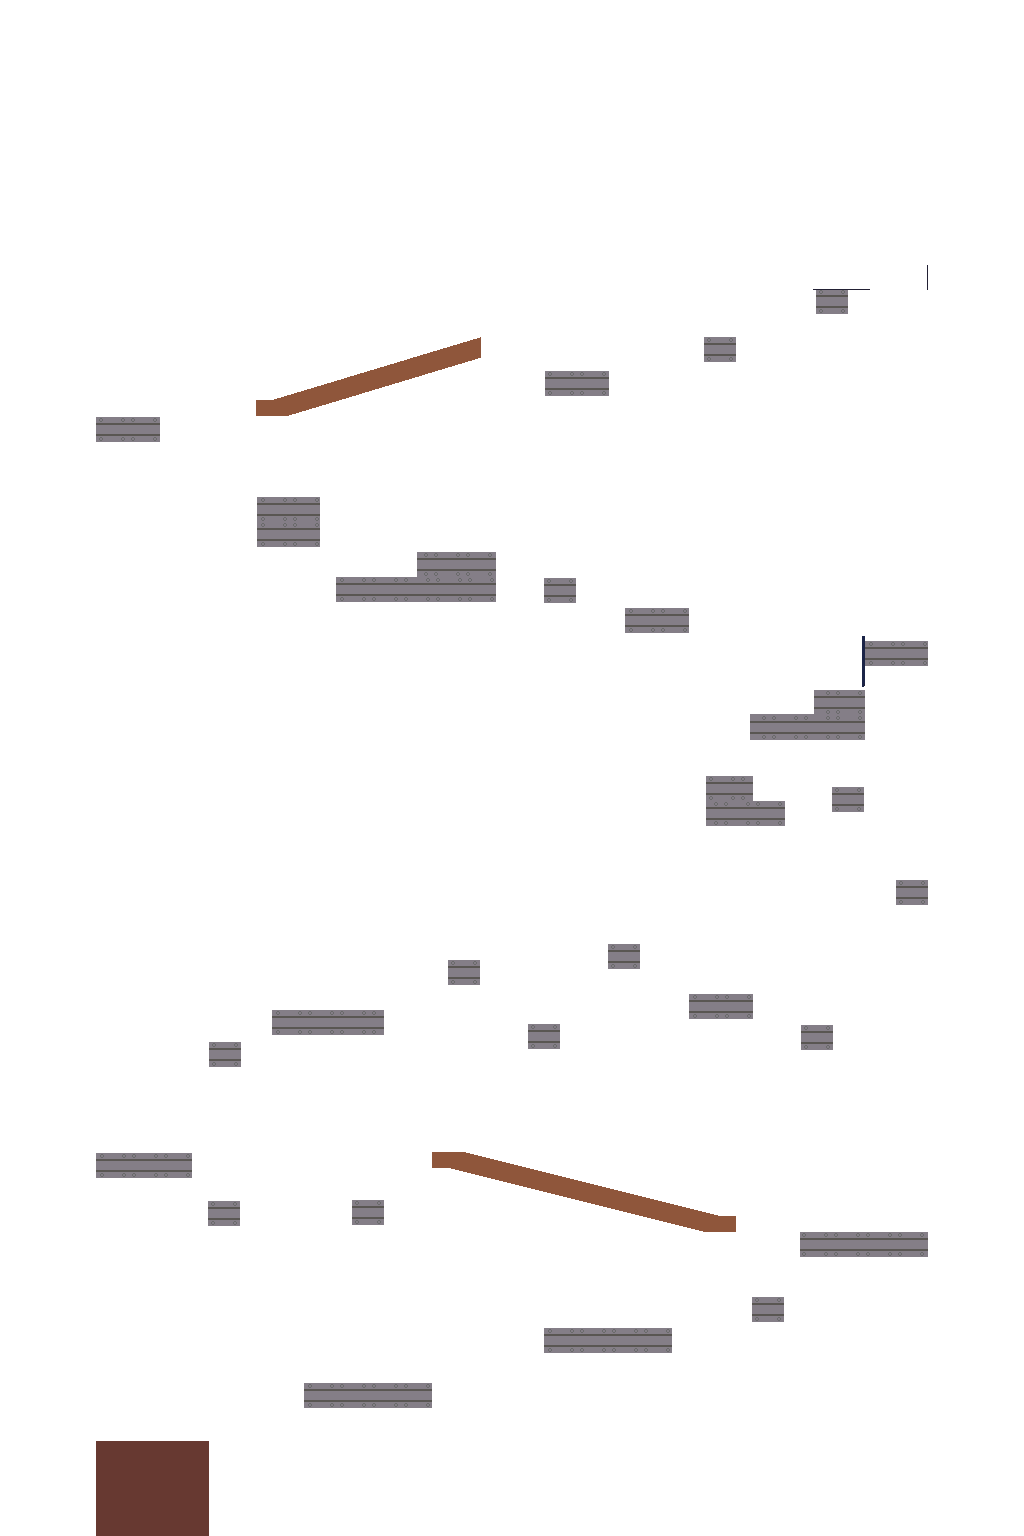
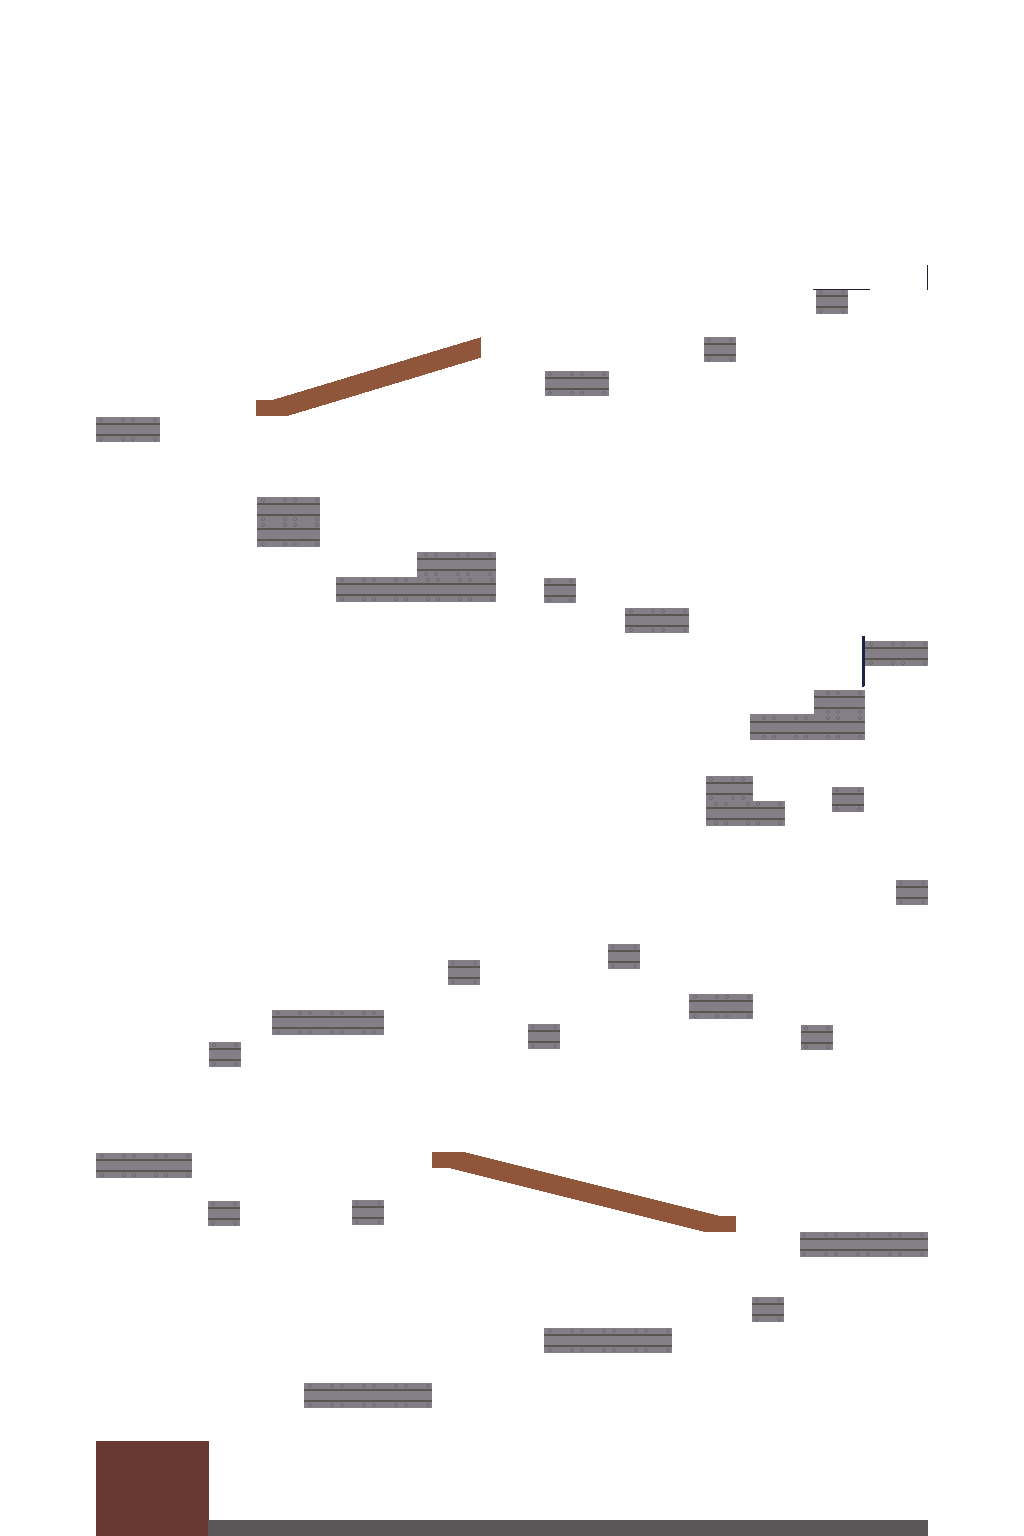
Add platforms

Changed region(s): [[0.1875, 0.9688, 0.9062, 1.0]]

diff --git a/assets/js/main.js b/assets/js/main.js
@@ -17,10 +17,11 @@ const config = {
 };
 
 let player;
+let platforms;
 let hearts;
 let sneezeBar;
 let cursors;
-let platforms;
+
 let spike;
 
 const game = new Phaser.Game(config);
@@ -62,10 +63,17 @@ function create() {
   sneezeBar = this.physics.add.staticGroup();
   sneezeBar.create(250, 30, 'sneezeBar');
 
-  player = this.physics.add.sprite(400, 600, 'sickHero');
+  player = this.physics.add.sprite(400, 550, 'sickHero');
 
   player.setBounce(0.2);
   player.setCollideWorldBounds(true);
+
+  this.anims.create({
+    key: 'left',
+    frames: this.anims.generateFrameNumbers('sickHero', { start: 6, end: 8 }),
+    frameRate: 10,
+    repeat: -1,
+  });
 
   this.anims.create({
     key: 'turn',
@@ -75,24 +83,32 @@ function create() {
 
   this.anims.create({
     key: 'right',
-    frames: this.anims.generateFrameNumbers('sickHero', { start: 7, end: 10 }),
+    frames: this.anims.generateFrameNumbers('sickHero', { start: 9, end: 11 }),
     frameRate: 10,
     repeat: -1,
   });
 
   cursors = this.input.keyboard.createCursorKeys();
+
+  this.physics.add.collider(player, platforms);
 }
 
 function update() {
-  if (cursors.right.isDown) {
+  if (cursors.left.isDown) {
+    player.setVelocityX(-50);
+
+    player.anims.play('left', true);
+  } else if (cursors.right.isDown) {
     player.setVelocityX(50);
+
     player.anims.play('right', true);
   } else {
     player.setVelocityX(0);
+
     player.anims.play('turn');
   }
 
-  if (cursors.up.isDown && player.body.touching.down) {
+  if (cursors.up.isDown) {
     player.setVelocityY(-120);
   }
 }
